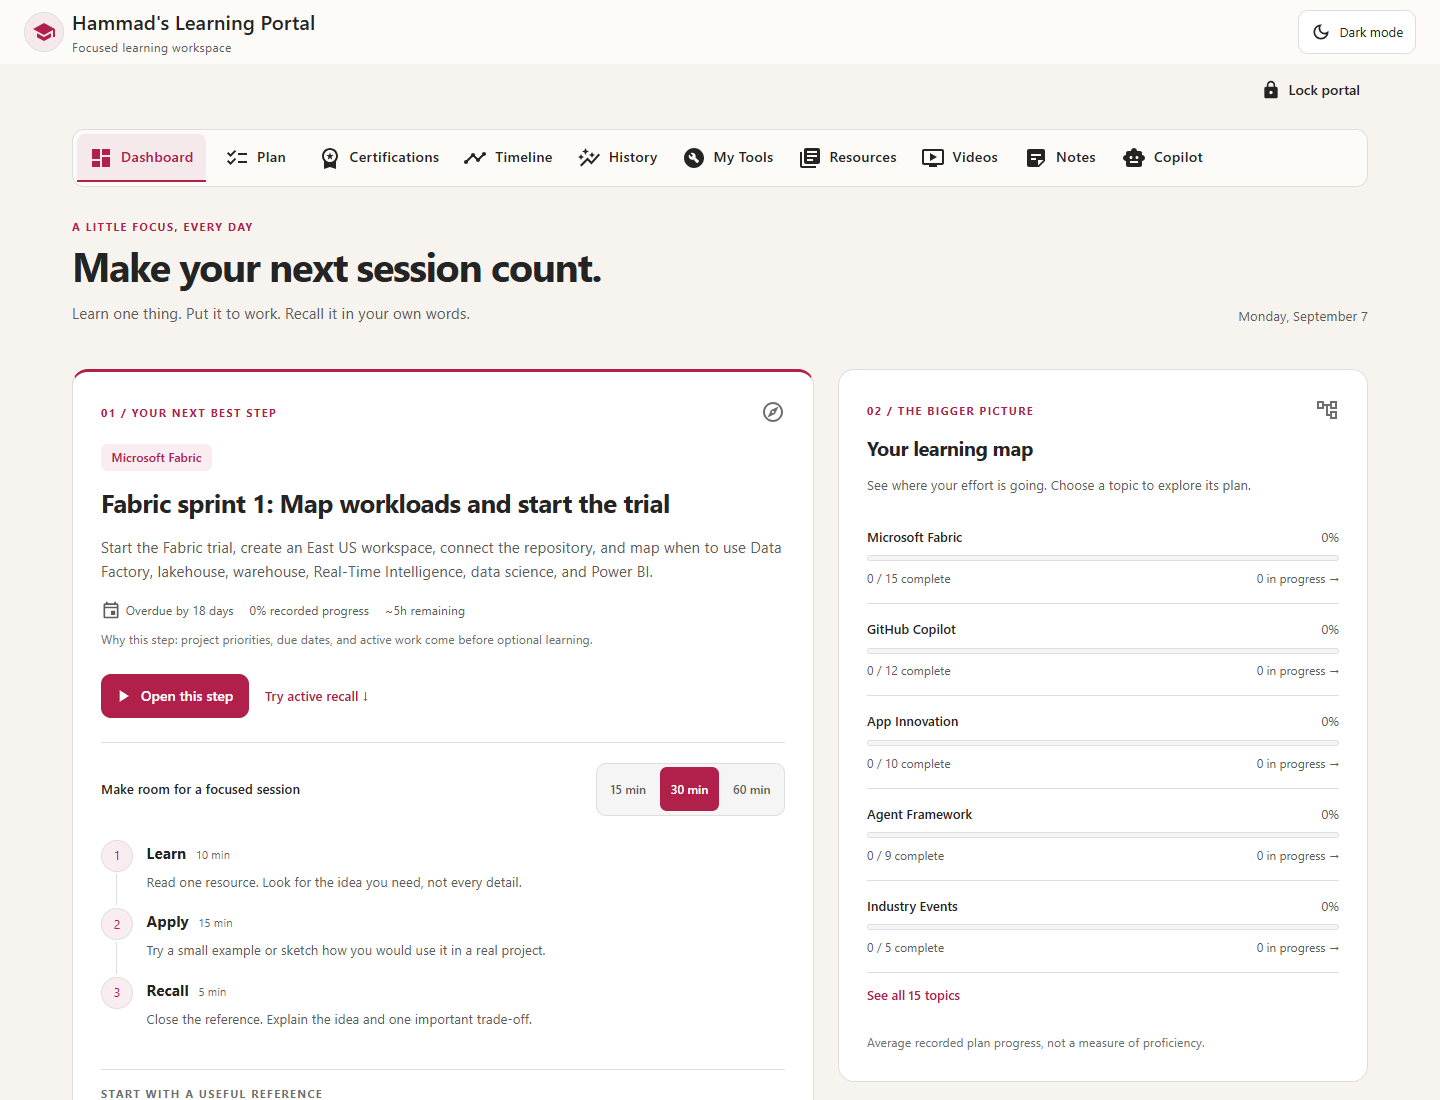
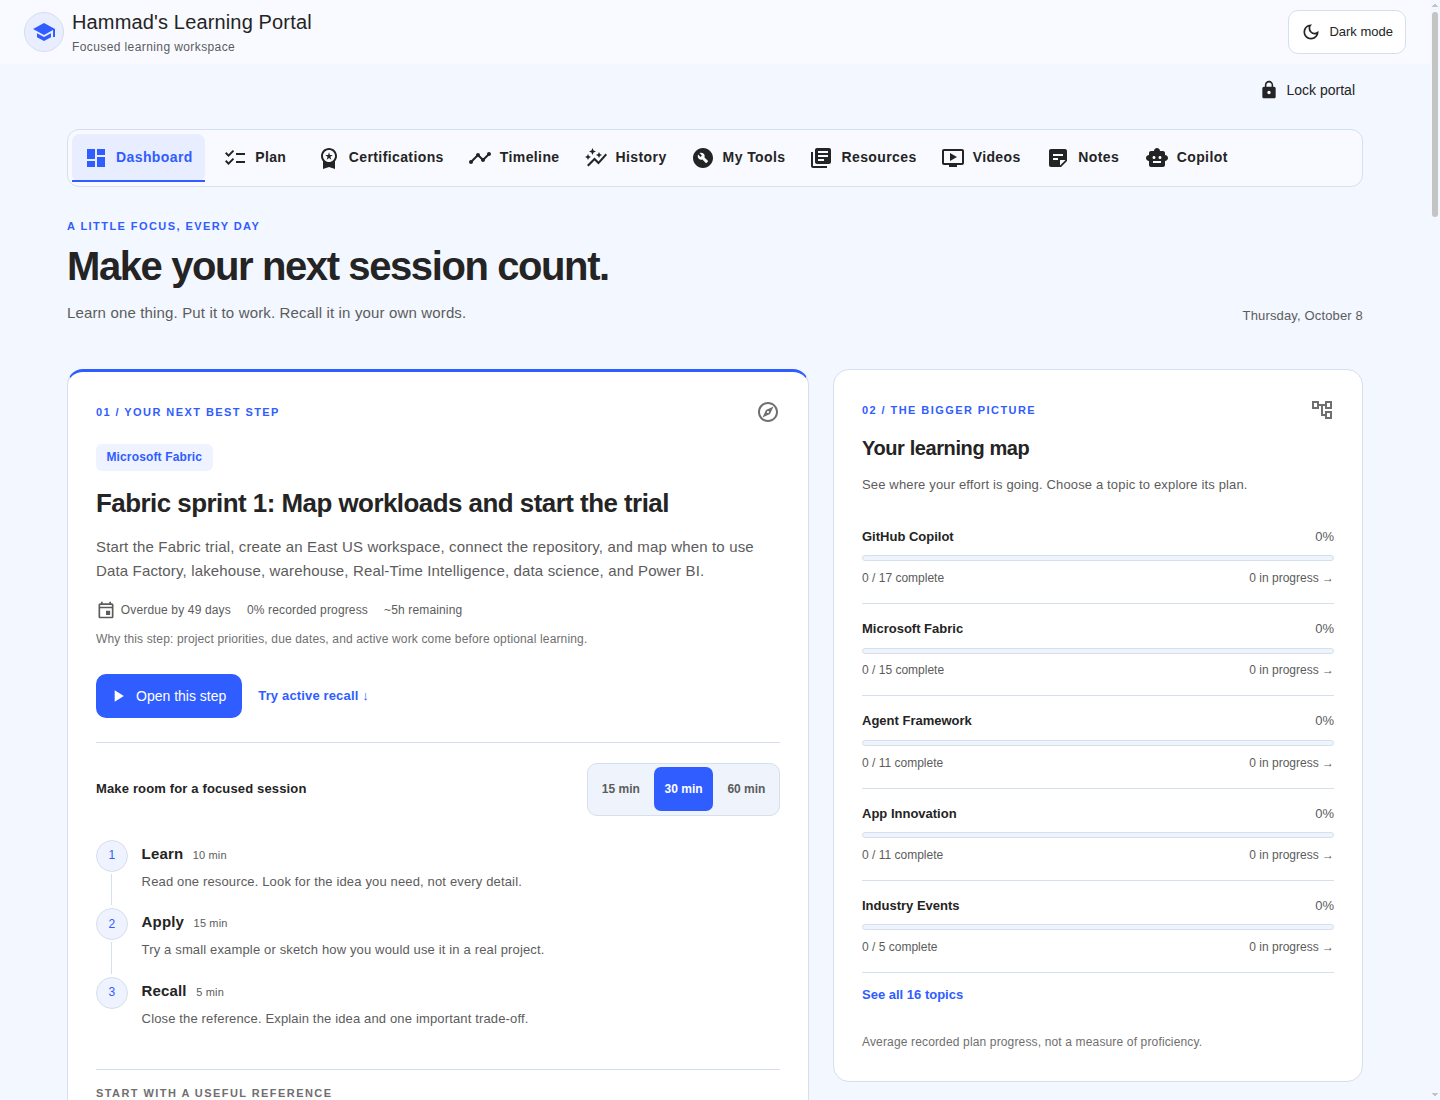
Switch learning portal to blue theme

diff --git a/src/UpskillTracker/wwwroot/learning.css b/src/UpskillTracker/wwwroot/learning.css
@@ -1,55 +1,55 @@
 :root {
     color-scheme: light;
-    --cp-bg: #f7f4ef;
-    --cp-bg-elevated: #fcfbf8;
+    --cp-bg: #f3f7ff;
+    --cp-bg-elevated: #f8faff;
     --cp-surface: #ffffff;
-    --cp-surface-soft: #f5f5f5;
-    --cp-border: #dedede;
-    --cp-border-strong: #919191;
+    --cp-surface-soft: #eff4fc;
+    --cp-border: #d6dfed;
+    --cp-border-strong: #8796ac;
     --cp-text: #242424;
     --cp-text-muted: #5c5c5c;
     --cp-text-soft: #6f6f6f;
-    --cp-accent: #b11f4b;
-    --cp-accent-hover: #9a1a41;
-    --cp-accent-soft: rgba(177, 31, 75, 0.08);
+    --cp-accent: #305dff;
+    --cp-accent-hover: #2448cc;
+    --cp-accent-soft: rgba(48, 93, 255, 0.08);
     --cp-accent-fg: #ffffff;
     --cp-success: #16a34a;
     --cp-danger: #dc2626;
     --cp-warning: #f59e0b;
-    --cp-link: #0078d4;
+    --cp-link: #305dff;
     --cp-shadow: 0 18px 48px rgba(0, 0, 0, 0.12);
     --cp-overlay: rgba(255, 255, 255, 0.8);
     --cp-panel: rgba(255, 255, 255, 0.86);
     --cp-panel-strong: rgba(255, 255, 255, 0.96);
     --cp-sheen: rgba(255, 255, 255, 0.55);
-    --cp-highlight: rgba(177, 31, 75, 0.12);
+    --cp-highlight: rgba(48, 93, 255, 0.12);
 }
 
 html[data-theme="dark"] {
     color-scheme: dark;
-    --cp-bg: #3d3b3a;
-    --cp-bg-elevated: #343231;
-    --cp-surface: #292929;
-    --cp-surface-soft: #2e2e2e;
-    --cp-border: #474747;
-    --cp-border-strong: #5f5f5f;
-    --cp-text: #dedede;
-    --cp-text-muted: #919191;
-    --cp-text-soft: #b0b0b0;
-    --cp-accent: #fd8ea1;
-    --cp-accent-hover: #fb7b91;
-    --cp-accent-soft: rgba(253, 142, 161, 0.14);
-    --cp-accent-fg: #1a1a1a;
+    --cp-bg: #202a3a;
+    --cp-bg-elevated: #1a2433;
+    --cp-surface: #18202e;
+    --cp-surface-soft: #202b3c;
+    --cp-border: #344155;
+    --cp-border-strong: #52627a;
+    --cp-text: #e3eaf5;
+    --cp-text-muted: #a4b1c4;
+    --cp-text-soft: #8795aa;
+    --cp-accent: #8eafff;
+    --cp-accent-hover: #a7beff;
+    --cp-accent-soft: rgba(142, 175, 255, 0.14);
+    --cp-accent-fg: #17233a;
     --cp-success: #4ade80;
     --cp-danger: #f87171;
     --cp-warning: #fbbf24;
-    --cp-link: #4da6ff;
+    --cp-link: #8eafff;
     --cp-shadow: 0 18px 48px rgba(0, 0, 0, 0.32);
-    --cp-overlay: rgba(41, 41, 41, 0.88);
-    --cp-panel: rgba(41, 41, 41, 0.72);
-    --cp-panel-strong: rgba(41, 41, 41, 0.96);
+    --cp-overlay: rgba(24, 32, 46, 0.88);
+    --cp-panel: rgba(24, 32, 46, 0.72);
+    --cp-panel-strong: rgba(24, 32, 46, 0.96);
     --cp-sheen: rgba(255, 255, 255, 0.04);
-    --cp-highlight: rgba(253, 142, 161, 0.12);
+    --cp-highlight: rgba(142, 175, 255, 0.12);
 }
 
 /* Bridge the existing MudBlazor views to one palette, including popovers and dialogs. */

diff --git a/README.md b/README.md
@@ -40,9 +40,15 @@ Azure App Service.
 
 For the Mermaid version of the architecture, see [arch.md](arch.md).
 
-## Portal screenshot
+## Portal screenshots
 
-![Hammad's Learning Portal](docs/images/portal-home.png)
+Before the blue theme:
+
+![Hammad's Learning Portal before the blue theme](docs/images/portal-home-before.png)
+
+After the blue theme:
+
+![Hammad's Learning Portal with the blue theme](docs/images/portal-home.png)
 
 ![Active recall with an example explanation and a scheduled review](docs/images/active-recall.png)
 
